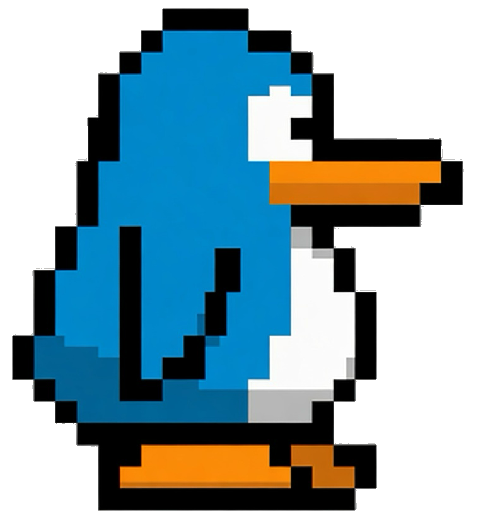
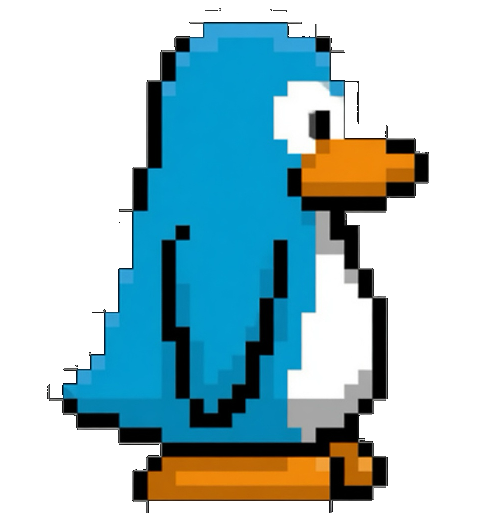
fix: regenerate penguin side sprites to match front/back
Redo side idle and walk plates with Grok Imagine, using the current
front and back Club Penguin plates as style references so the profile
shares the same chunky pixel look, white eye, short beak, and proportions.

diff --git a/src/appVersion.ts b/src/appVersion.ts
@@ -5,4 +5,4 @@
  * feature ships — patch for fixes, minor for features, major for breaking
  * changes. Keep both files in sync.
  */
-export const APP_VERSION = '1.18.0';
+export const APP_VERSION = '1.18.1';

diff --git a/scripts/reference/penguin/README.md b/scripts/reference/penguin/README.md
@@ -22,6 +22,14 @@ When the player stops, scenes set texture frame **0** — standing idle, not a
 mid-walk hop. Walk anims cycle frames **1↔2** so feet truly alternate (never
 plant + one-foot hop, which reads as sliding on one foot).
 
+## Side facing (v3)
+
+Side idle + walk plates were regenerated with Grok Imagine using the current
+front (`down-*`) and back (`up-*`) game sprites as style references so the
+profile matches the same chunky Club Penguin pixel look (white eye + black
+pupil, short beak, flippers by the body). Sources live under
+`imagine-side-v3/`; game inputs under `poses/side-{0,1,2}.png`.
+
 ## Refresh
 
 ```bash
